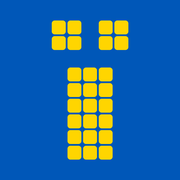
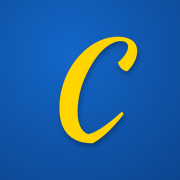
Новий знак «С» і підпис Stepovyk у шапці, без смужки-прапора

diff --git a/index.html b/index.html
@@ -25,7 +25,7 @@
 <script type="application/ld+json">{"@context":"https://schema.org","@graph":[{"@type":"WebSite","name":"Ігри українською","url":"https://stepovyk.github.io/","inLanguage":"uk"},{"@type":"Person","name":"Stepovyk","url":"https://stepovyk.github.io/","image":"https://stepovyk.github.io/assets/avatar-512.png","sameAs":["https://t.me/stepovyk_ua","https://github.com/stepovyk","https://www.nexusmods.com/users/174402135"]}]}</script>
 <link rel="preconnect" href="https://fonts.googleapis.com">
 <link rel="preconnect" href="https://fonts.gstatic.com" crossorigin>
-<link href="https://fonts.googleapis.com/css2?family=Fira+Sans+Condensed:wght@600;700&family=Fira+Sans:wght@400;500&display=swap" rel="stylesheet">
+<link href="https://fonts.googleapis.com/css2?family=Fira+Sans+Condensed:wght@600;700&family=Fira+Sans:wght@400;500&family=Kaushan+Script&display=swap" rel="stylesheet">
 <style>
 :root{
   --bg:#0b0f17;--surface:#131a26;--surface-2:#1a2332;--line:#243044;
@@ -44,8 +44,8 @@ a{color:inherit}
 /* шапка */
 header{position:sticky;top:0;z-index:10;background:rgb(11 15 23 / .82);backdrop-filter:blur(12px);-webkit-backdrop-filter:blur(12px);border-bottom:1px solid rgb(255 255 255 / .06)}
 .bar{display:flex;align-items:center;justify-content:space-between;height:64px;gap:12px}
-.brand{display:flex;align-items:center;gap:10px;text-decoration:none;font:700 23px/1 var(--head)}
-.brand img{width:36px;height:36px;border-radius:10px}
+.brand{display:flex;align-items:center;gap:10px;text-decoration:none;font:400 27px/1 "Kaushan Script",var(--head)}
+.brand img{width:38px;height:38px;border-radius:9px}
 .nav{display:flex;gap:6px;align-items:center}
 .nav a{text-decoration:none;color:var(--muted);font:500 15px/1 var(--body);padding:14px 12px;border-radius:999px;transition:color .2s,background .2s}
 .nav a:hover{color:var(--text);background:var(--surface)}
@@ -72,12 +72,9 @@ header{position:sticky;top:0;z-index:10;background:rgb(11 15 23 / .82);backdrop-
 .collage img{width:100%;height:100%;object-fit:cover;border-radius:16px;box-shadow:0 0 0 1px var(--line),0 18px 40px rgb(0 0 0 / .4)}
 .collage img:first-child{grid-row:1 / span 2}
 .hero-text{min-width:0}
-h1{font:700 clamp(46px,12vw,112px)/.92 var(--head);margin:0 0 24px;text-transform:uppercase;letter-spacing:-.01em}
+h1{font:700 clamp(46px,12vw,112px)/.92 var(--head);margin:0 0 28px;text-transform:uppercase;letter-spacing:-.01em}
 h1 span{display:block;color:var(--yellow)}
 @media (min-width:901px){h1{font-size:clamp(60px,7.2vw,84px)}}
-.flag{display:flex;width:80px;height:8px;border-radius:4px;overflow:hidden;margin:0 0 24px}
-.flag::before,.flag::after{content:"";flex:1}
-.flag::before{background:var(--blue)}.flag::after{background:var(--yellow)}
 .lead{font-size:clamp(19px,2.4vw,23px);color:#c9d1de;max-width:40ch;text-wrap:pretty;margin:0 0 32px}
 
 /* розділи */
@@ -143,7 +140,7 @@ footer{padding:40px 0 56px;color:var(--muted);font-size:15px}
 <body>
 <header>
   <div class="wrap bar">
-    <a class="brand" href="#top" aria-label="Ігри українською – на початок"><img src="assets/icon.svg" alt="" width="36" height="36">Stepovyk</a>
+    <a class="brand" href="#top" aria-label="Ігри українською – на початок"><img src="assets/icon.svg" alt="" width="38" height="38">Stepovyk</a>
     <nav class="nav" aria-label="Розділи">
       <a class="opt" href="#games">Переклади</a>
       <a class="opt" href="#next">У роботі</a>
@@ -157,7 +154,6 @@ footer{padding:40px 0 56px;color:var(--muted);font-size:15px}
   <div class="wrap hero">
     <div class="hero-text">
     <h1>Ігри<span>українською</span></h1>
-    <div class="flag" aria-hidden="true"></div>
     <p class="lead">Повні українські локалізації ігор. Безкоштовно, з встановленням за хвилину.</p>
     <div class="btns">
       <a class="btn btn-y" href="#games">Обрати гру</a>
